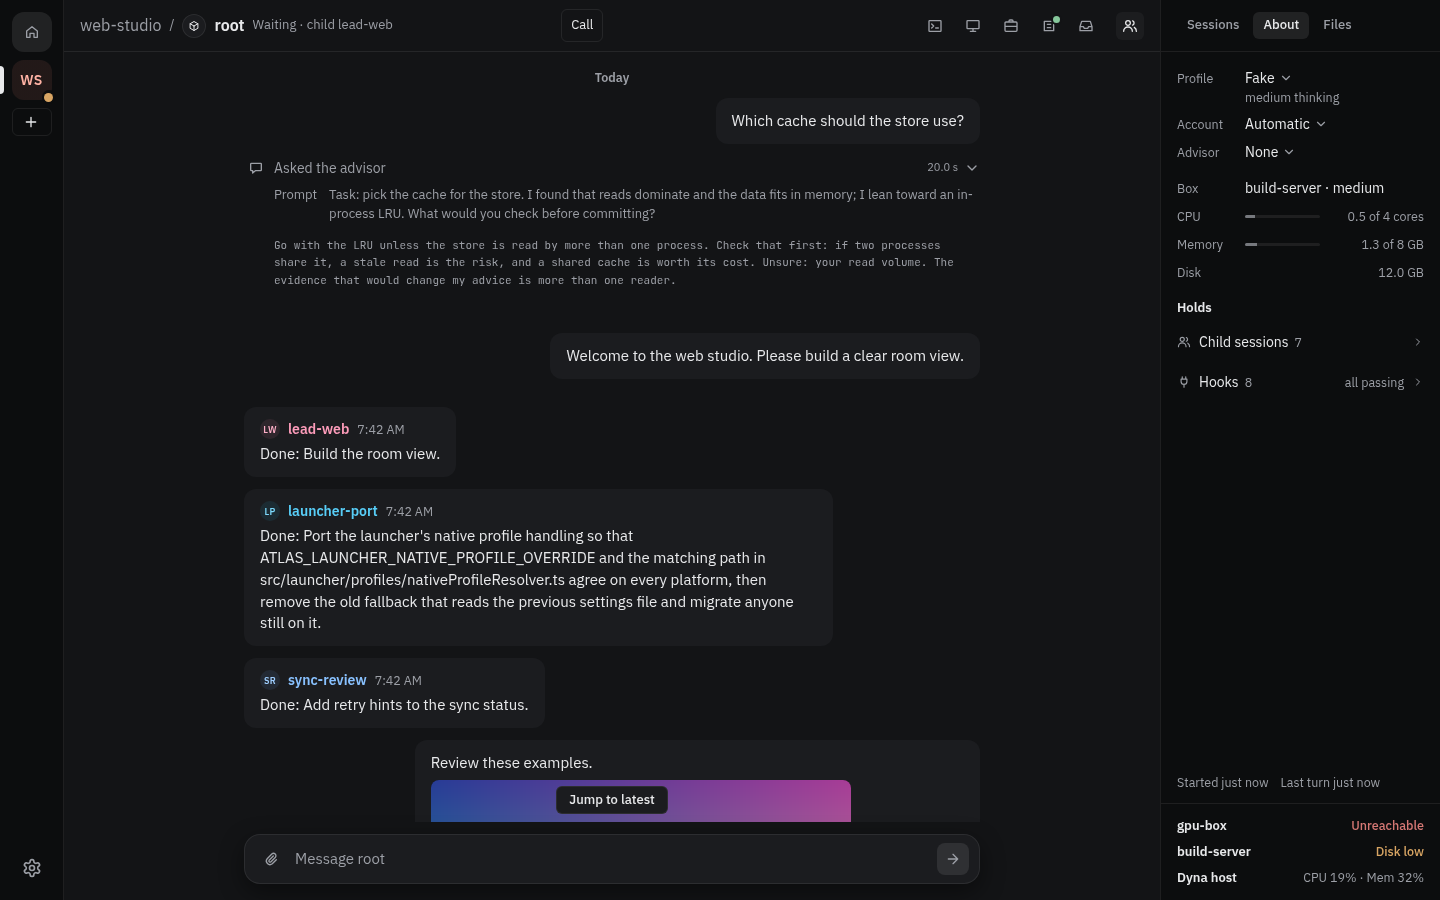
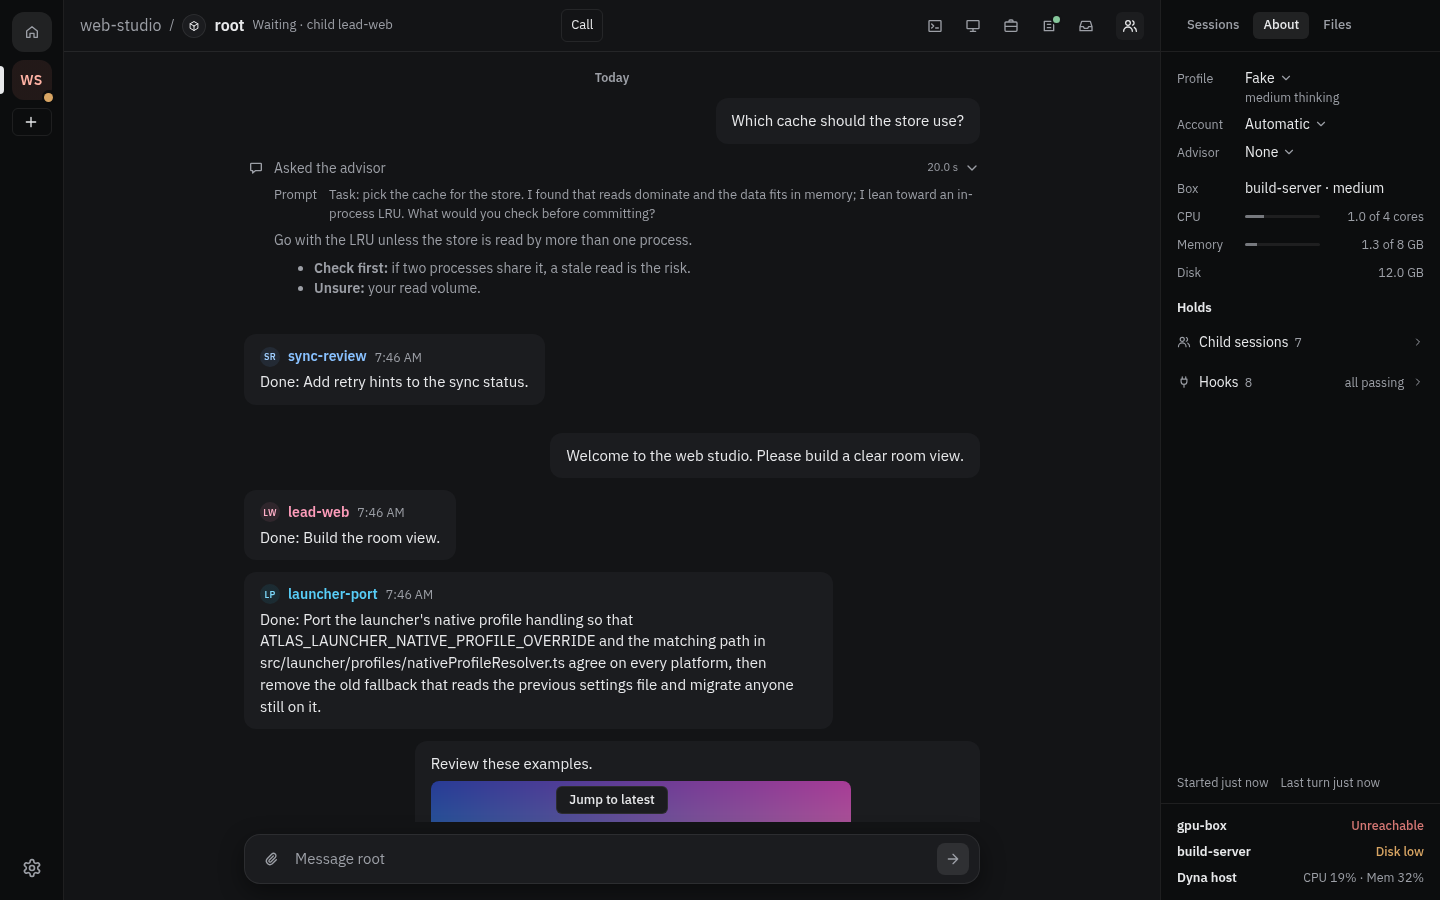
Show the advisor's answer as markdown text

diff --git a/next/web/src/lib/ui/TranscriptWorkRow.svelte b/next/web/src/lib/ui/TranscriptWorkRow.svelte
@@ -12,6 +12,7 @@
   import ReadThumb from "./ReadThumb.svelte";
   import RunFields from "./RunFields.svelte";
   import { readMedia } from "../media.ts";
+  import { parsedJson } from "../json.ts";
 
   let { items, ended, started, now, activity, chunks, onload, onopen, session, onmedia }: {
     items: TranscriptItem[];
@@ -28,6 +29,8 @@
 
   const icons: Record<StepKind, IconName> = { read: "file", edit: "edit", write: "write", search: "search", list: "list", run: "terminal", fetch: "globe", advisor: "chat", tool: "tool" };
   const parts = ["arguments", "output"] as const;
+  // The advisor's answer is prose, shown as a message is. The tool returns it as {answer}, and an older or cut result is the text itself.
+  const advice = (text: string) => { const value = parsedJson(text); const answer = value && typeof value === "object" && !Array.isArray(value) ? value["answer"] : undefined; return typeof answer === "string" ? answer : text; };
   let failures: Record<string, boolean> = $state({});
   let loading: Record<string, boolean> = $state({});
   let expandedContent: Record<string, boolean> = $state({});
@@ -120,7 +123,8 @@
         {#each parts as name}
           {#if item[name] || chunks[key(item, name)] !== undefined}
             {@const part = toolPart(name, chunks[key(item, name)] ?? item[name] ?? "", title.kind, !!item.more && chunks[key(item, name)] === undefined)}
-            {#if part.text}{@const lines = part.text.split("\n")}<pre>{(expandedContent[key(item, name)] ? lines : lines.slice(0, 12)).join("\n")}</pre>{#if lines.length > 12 && !expandedContent[key(item, name)]}<button onclick={() => expandedContent[key(item, name)] = true}>Show all</button>{/if}{/if}
+            {#if title.kind === "advisor" && name === "output"}<div class="advice"><Markdown text={advice(chunks[key(item, name)] ?? item[name] ?? "")} source={{ key: item.id, from: { kind: "session", session }, at: item.at }} /></div>
+            {:else if part.text}{@const lines = part.text.split("\n")}<pre>{(expandedContent[key(item, name)] ? lines : lines.slice(0, 12)).join("\n")}</pre>{#if lines.length > 12 && !expandedContent[key(item, name)]}<button onclick={() => expandedContent[key(item, name)] = true}>Show all</button>{/if}{/if}
             {#if part.fields.length}<div class="fields"><RunFields fields={part.fields} /></div>{/if}
           {/if}
           {#if item.more && chunks[key(item, name)] === undefined}
@@ -157,6 +161,7 @@
 {/if}
 
 <style>
+  .advice { padding: 4px 0 4px 0; font-size: 14px; }
   .group, .entry { color: var(--muted); font-size: 14px; line-height: 1.625; }
   .group-heading { display: flex; align-items: center; gap: 6px; }
   .thought-toggle { margin-left: auto; display: inline-flex; align-items: center; gap: 4px; white-space: nowrap; }

diff --git a/next/cmd/dyna-webdev/fixture_about.go b/next/cmd/dyna-webdev/fixture_about.go
@@ -132,7 +132,7 @@ func seedAdvisorCall(ctx context.Context, s *engine.Service, st *store.Store, ro
 		return err
 	}))
 	prompt := "Task: pick the cache for the store. I found that reads dominate and the data fits in memory; I lean toward an in-process LRU. What would you check before committing?"
-	answer := "Go with the LRU unless the store is read by more than one process. Check that first: if two processes share it, a stale read is the risk, and a shared cache is worth its cost. Unsure: your read volume. The evidence that would change my advice is more than one reader."
+	answer := "Go with the LRU unless the store is read by more than one process.\n\n- **Check first:** if two processes share it, a stale read is the risk.\n- **Unsure:** your read volume."
 	lines := fmt.Sprintf(`{"type":"message","timestamp":%q,"message":{"role":"user","deliveryId":"%d"}}
 {"type":"message","timestamp":%q,"message":{"role":"assistant","content":[{"type":"toolCall","id":"adv1","name":"advisor","arguments":{"prompt":%q}}]}}
 {"type":"message","timestamp":%q,"message":{"role":"toolResult","toolCallId":"adv1","content":[{"type":"text","text":%q}]}}
